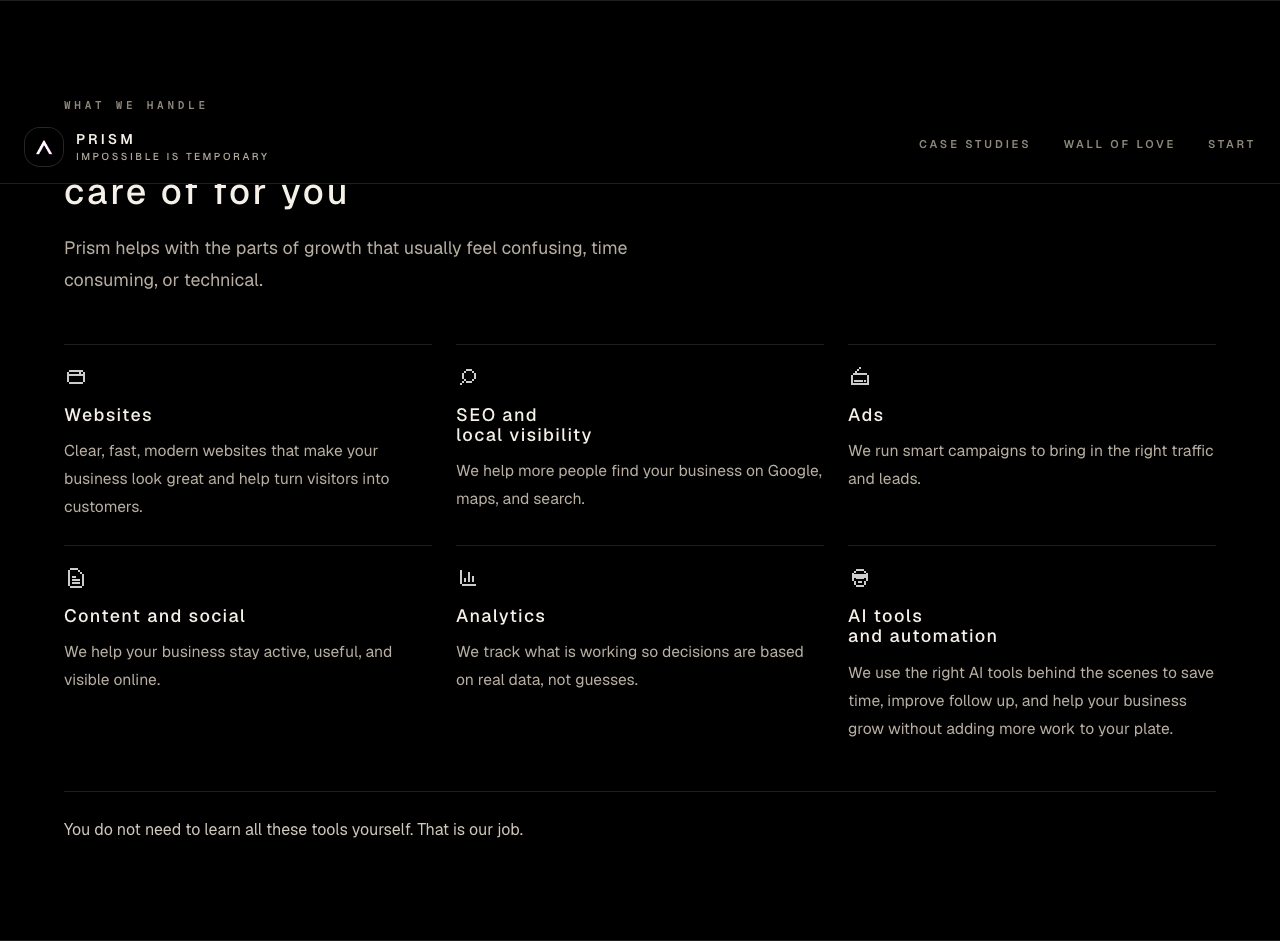
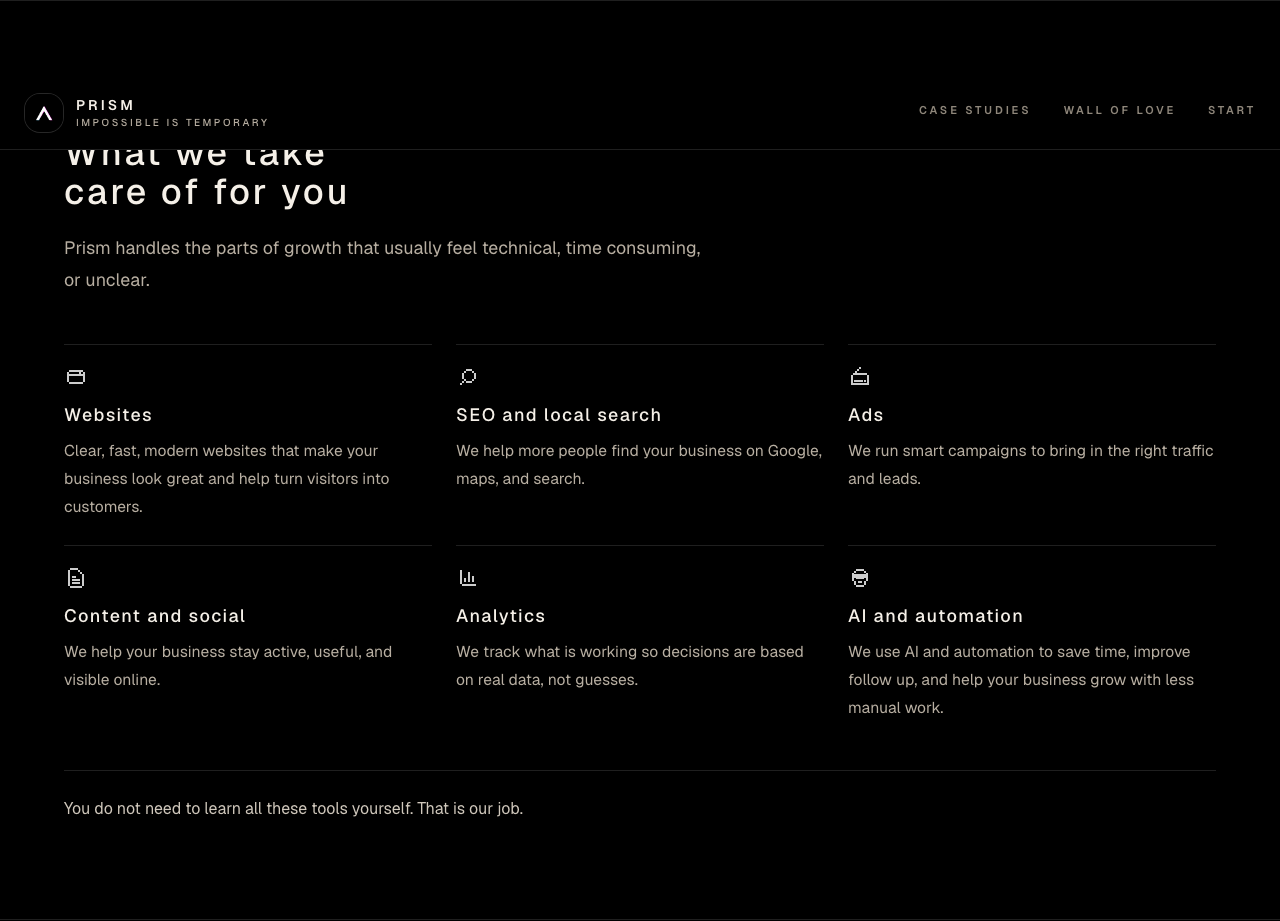
Stabilize homepage services snapshots

diff --git a/components/home/homepage-content.ts b/components/home/homepage-content.ts
@@ -134,7 +134,7 @@ export const HOMEPAGE_SERVICES = {
   eyebrow: 'what we handle',
   title: 'What we take care of for you',
   description:
-    'Prism helps with the parts of growth that usually feel confusing, time consuming, or technical.',
+    'Prism handles the parts of growth that usually feel technical, time consuming, or unclear.',
   closingLine:
     'You do not need to learn all these tools yourself. That is our job.',
 } as const
@@ -147,7 +147,7 @@ export const HOMEPAGE_SERVICE_ITEMS: readonly HomepageIconCard[] = [
     iconSrc: '/pixelish/browser.svg',
   },
   {
-    title: 'SEO and local visibility',
+    title: 'SEO and local search',
     description:
       'We help more people find your business on Google, maps, and search.',
     iconSrc: '/pixelish/lens.svg',
@@ -171,9 +171,9 @@ export const HOMEPAGE_SERVICE_ITEMS: readonly HomepageIconCard[] = [
     iconSrc: '/pixelish/bar-chart-average.svg',
   },
   {
-    title: 'AI tools and automation',
+    title: 'AI and automation',
     description:
-      'We use the right AI tools behind the scenes to save time, improve follow up, and help your business grow without adding more work to your plate.',
+      'We use AI and automation to save time, improve follow up, and help your business grow with less manual work.',
     iconSrc: '/pixelish/robot.svg',
   },
 ] as const

diff --git a/components/home/HomeServicesSection.tsx b/components/home/HomeServicesSection.tsx
@@ -34,7 +34,7 @@ export default function HomeServicesSection() {
                 aria-hidden="true"
                 className="h-[17px] w-[17px] opacity-80"
               />
-              <h3 className="mt-4 max-w-[16ch] font-sans text-[1.25rem] font-medium tracking-[-0.04em] text-[#f5f0e8]">
+              <h3 className="mt-4 max-w-none text-balance font-sans text-[1.25rem] font-medium leading-[1.08] tracking-[-0.04em] text-[#f5f0e8]">
                 {item.title}
               </h3>
               <p className="mt-3 font-sans text-[0.98rem] leading-7 text-[#b8afa2]">